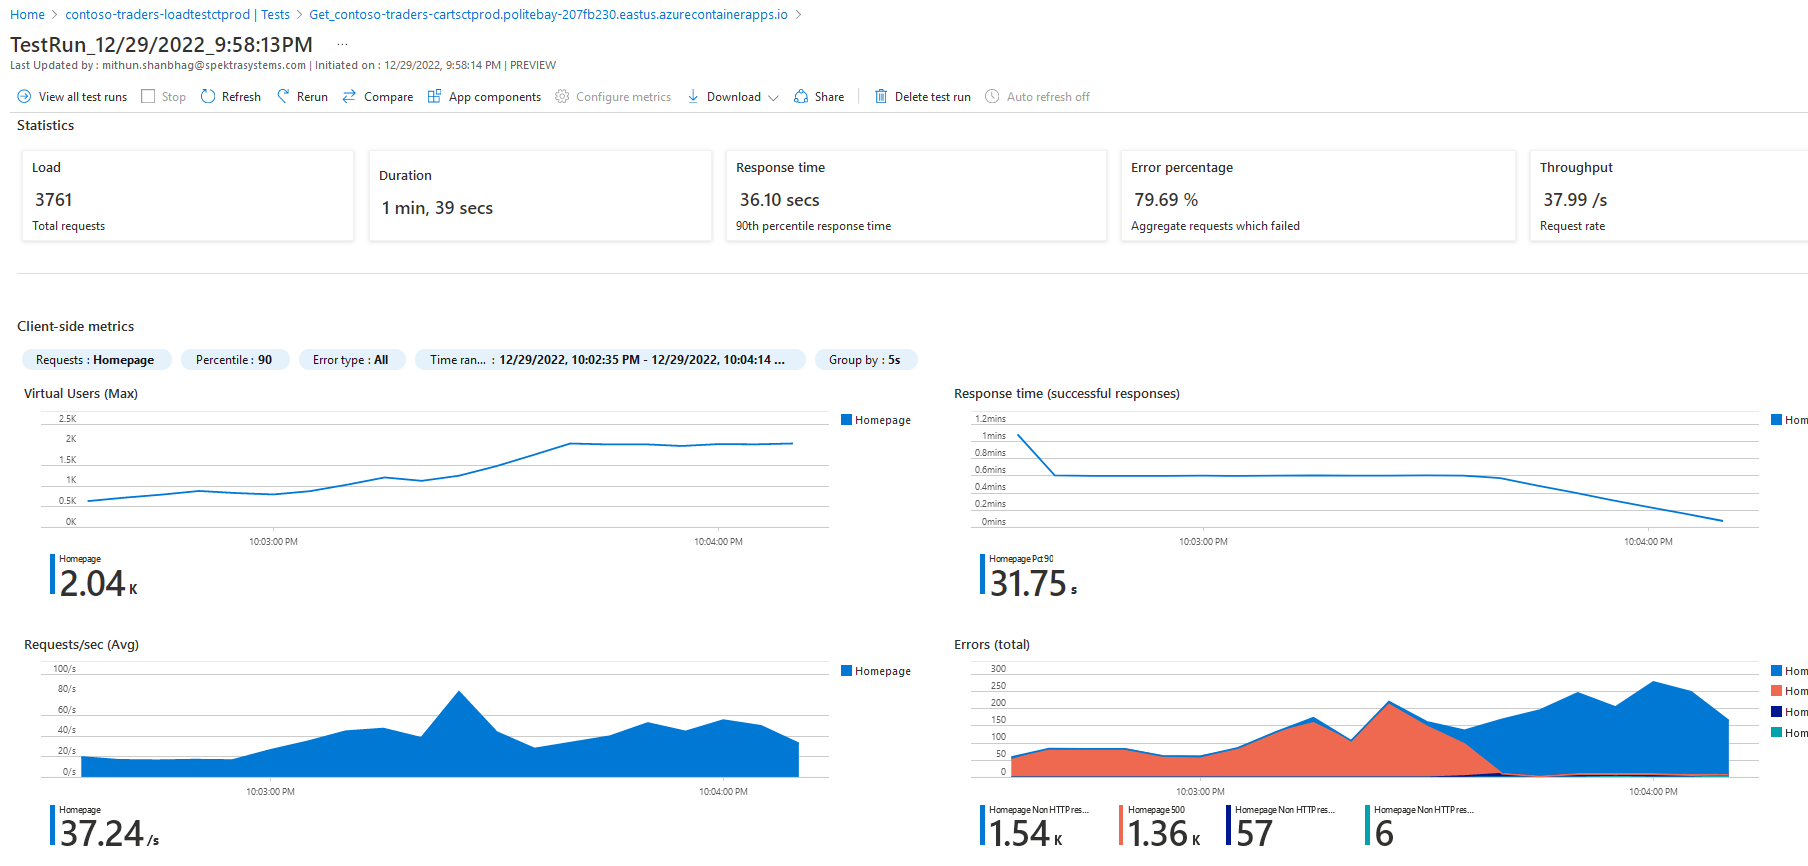
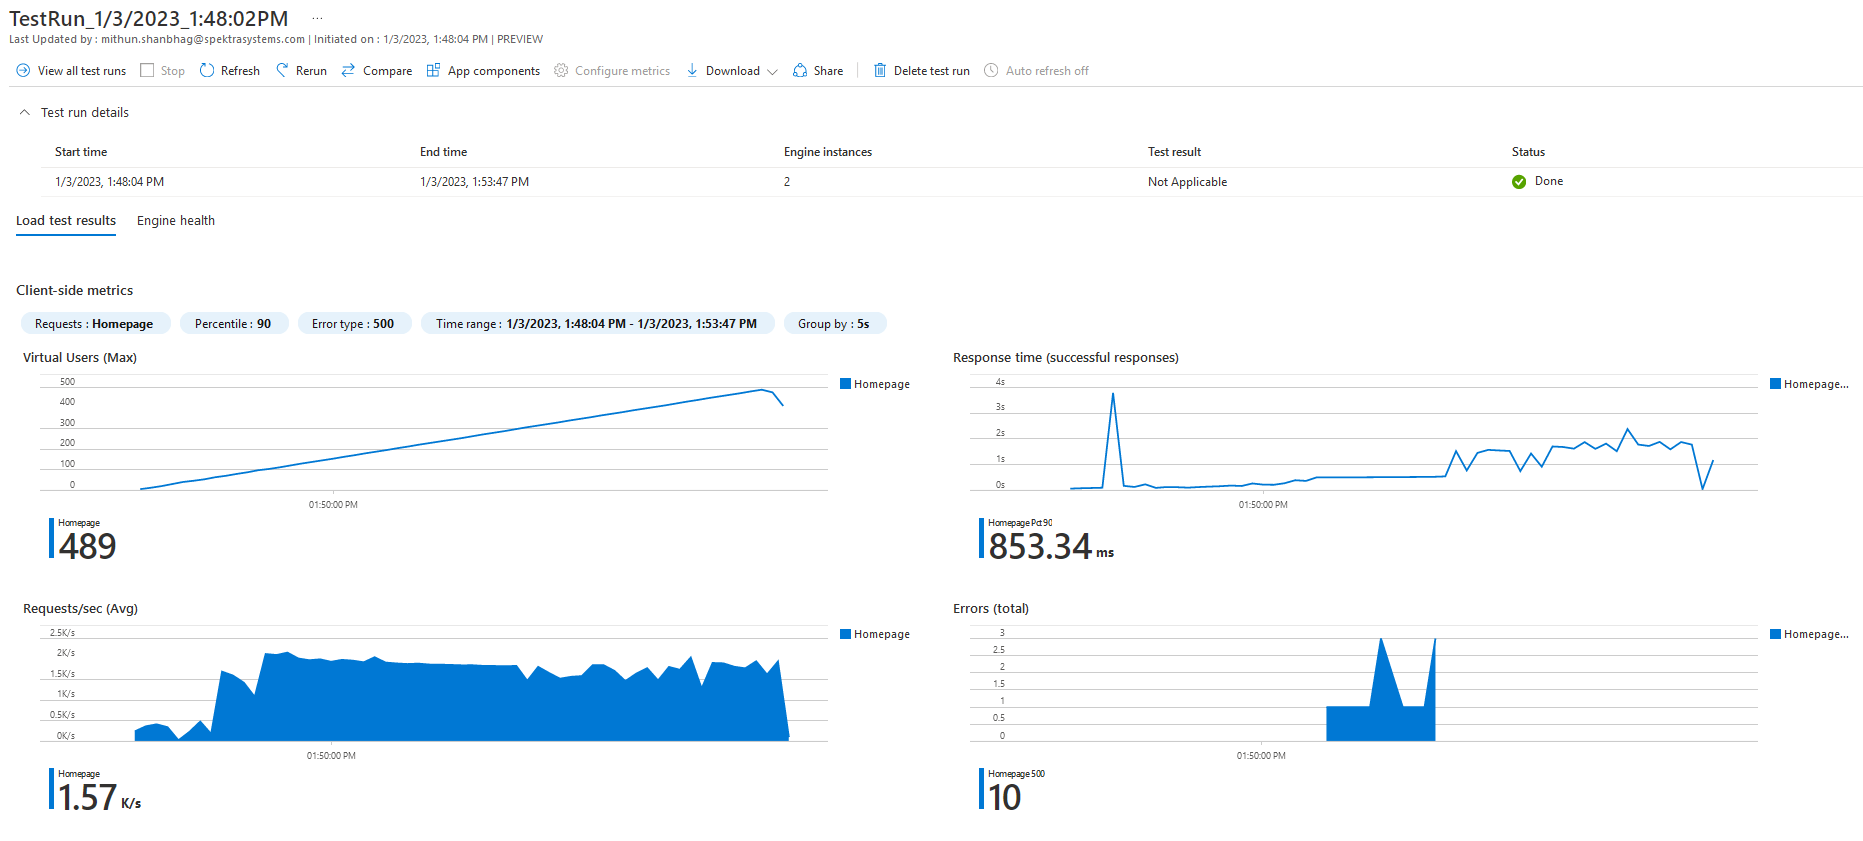
updated: app breakpoint section

diff --git a/demo-scripts/azure-load-testing/walkthrough.md b/demo-scripts/azure-load-testing/walkthrough.md
@@ -2,15 +2,19 @@
 
 ## Key Takeaways
 
-In this demo, you'll get an overview of Azure's Load Testing service; a managed service that can be used to simulate load on your application's APIs.
+In this demo, you'll get an overview of Azure's Load Testing service; a managed service that can be used to simulate load on your application's UI and APIs endpoints.
 
-You'll also get an insight into how to incorporate server-side metrics into the load test dashboard.
+You'll also get an insight into:
+
+- how to identify an application's breaking point under incrementally increasing load.
+- how to leverage server-side metrics and Azure AppInsights to identify the performance bottleneck.
+- how to guard your application against performance regressions leveraging load testing in CI/CD pipelines.
 
 All these are especially crucial for an e-commerce application like Contoso Traders, which is expected to instantly handle a large, sudden spike in number of users, with low latency and no downtime.
 
 ## Before You Begin
 
-* There are some prerequisites for this demo mentioned in the [application deployment guide](../app-deployment-guide.md). After executing all the steps mentioned in that document, the application's infrastructure will be provisioned on Azure, and the latest code will be deployed as well.
+There are some prerequisites for this demo mentioned in the [application deployment guide](../app-deployment-guide.md). After executing all the steps mentioned in that document, the application's infrastructure will be provisioned on Azure, and the latest code will be deployed as well.
 
 ## Walkthrough: Identify the Load Test Target
 
@@ -114,7 +118,7 @@ All these are especially crucial for an e-commerce application like Contoso Trad
 
    ![app breakpoint](./media/app-breakpoint-2.png)
 
-3. Increase the number of engine instances to `45` (from original `1`).
+3. Increase the number of engine instances to `2` (from original `1`).
 
    ![app breakpoint](./media/app-breakpoint-3.png)
 
@@ -122,15 +126,19 @@ All these are especially crucial for an e-commerce application like Contoso Trad
 
    ![app breakpoint](./media/app-breakpoint-4.png)
 
-5. App Insights can help us narrow down the root cause of the error. Navigate to the `contoso-traders-rg` resource group, and click on the `contoso-traders-aictprod` resource.
+5. If you add the server-side metrics for the `contoso-traders-cartsctprod` CosmosDB, you'll notice that the DB's normalized RU consumption eventually starts to peg at 100% under load.
+
+   ![app breakpoint](./media/app-breakpoint-4-2.png)
+
+6. App Insights can help us narrow down the root cause of the error. Navigate to the `contoso-traders-rg` resource group, and click on the `contoso-traders-aictprod` resource.
 
    ![app breakpoint](./media/app-breakpoint-5.png)
 
-6. In the App Insights blade, click on the `Failures` tab. Narrow down the time range to (say) the last 30 minutes. You'll see the listed failures (sampled by App Insights) that occurred during the load test.
+7. In the App Insights blade, click on the `Failures` tab. Narrow down the time range to (say) the last 30 minutes. You'll see the listed failures (sampled by App Insights) that occurred during the load test.
 
    ![app breakpoint](./media/app-breakpoint-6.png)
 
-7. Clicking on any one sample will give you a detailed view of the error (including stack trace in case of an exception). In this case, the error is a `500` error, caused by a `TaskCanceledException` (due to a gateway timeout in CosmosDB). This is a good indication that the application is failing due to a performance bottleneck.
+8. Clicking on any one sample will give you a detailed view of the error (including stack trace in case of an exception). In this case, the error is a `500` error, caused by a `TaskCanceledException` (due to a gateway timeout in CosmosDB). This is a good indication that the application is failing due to a performance bottleneck.
 
    ![app breakpoint](./media/app-breakpoint-7.png)
 
